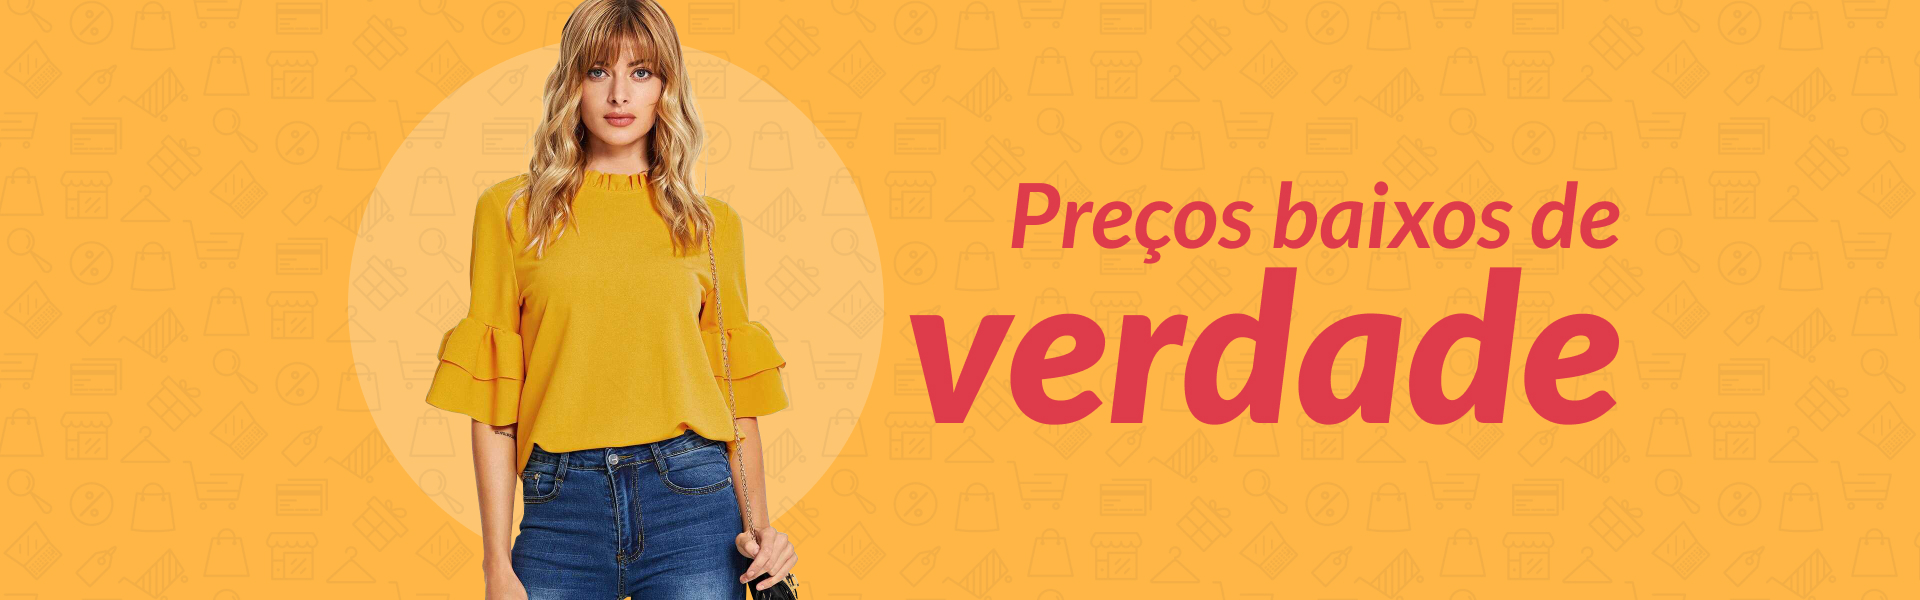
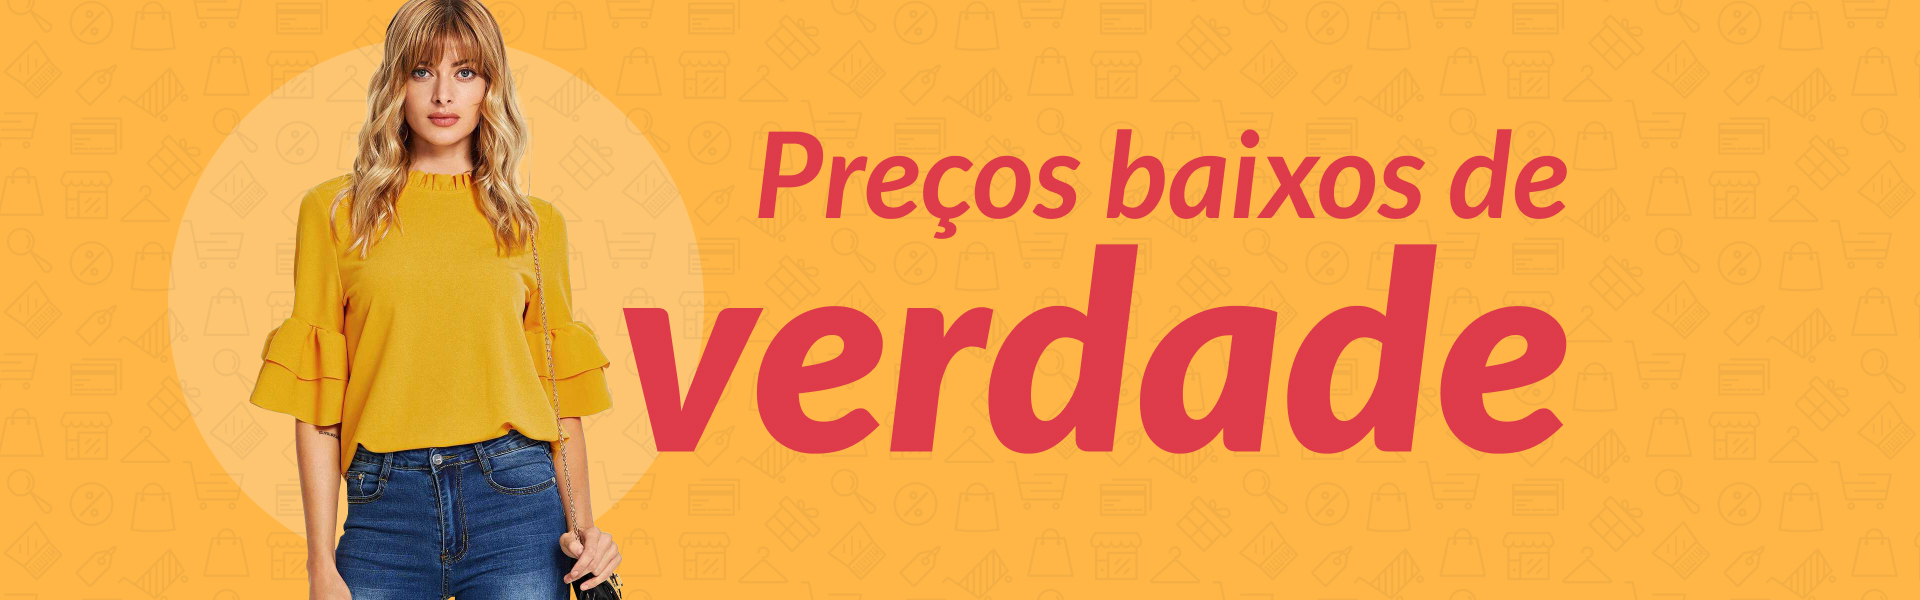
finished

diff --git a/src/components/Nav/styled.js b/src/components/Nav/styled.js
@@ -1,4 +1,5 @@
 import styled from 'styled-components'
+import media from 'styled-media-query'
 import { Megaphone } from '@styled-icons/ionicons-outline/Megaphone'
 import { ShoppingBag as Bag } from '@styled-icons/boxicons-regular/ShoppingBag'
 
@@ -14,6 +15,11 @@ export const Nav = styled.nav`
   max-width: 1320px;
   margin: auto;
   padding: 20px 20px 15px;
+
+  ${media.lessThan('medium')`
+  grid-template-columns: 1fr 1fr;
+  gap: 30px;
+  `}
 `
 
 export const Logo = styled.div``
@@ -22,6 +28,10 @@ export const Links = styled.ul`
   display: flex;
   list-style-type: none;
   margin: auto;
+
+  ${media.lessThan('medium')`
+    display: none;
+  `}
 `
 
 export const Link = styled.li`
@@ -55,6 +65,10 @@ export const SubNavContainer = styled.div`
   max-width: 1320px;
   margin: auto;
   padding: 8px 20px;
+
+  ${media.lessThan('medium')`
+  grid-template-columns: 1fr;
+  `}
 `
 
 export const Title = styled.div`
@@ -62,6 +76,12 @@ export const Title = styled.div`
   text-align: center;
   font-weight: 900;
   font-style: italic;
+
+  ${media.lessThan('medium')`
+    &.second {
+      display: none;
+    }
+  `}
 `
 
 export const MegaphoneIcon = styled(Megaphone)`

diff --git a/src/components/Product/styled.js b/src/components/Product/styled.js
@@ -1,4 +1,5 @@
 import styled from 'styled-components'
+import media from 'styled-media-query'
 import Img from 'gatsby-image'
 import { Heart } from '@styled-icons/fa-regular/Heart'
 import { Heart as HeartSolid } from '@styled-icons/fa-solid/Heart'
@@ -35,6 +36,10 @@ export const ProductImage = styled(Img)`
   width: 100%;
   min-height: 300px;
   margin-bottom: 10px;
+
+  ${media.lessThan('medium')`
+    min-height: 150px;
+  `}
 `
 
 export const ProductDesc = styled.div`

diff --git a/src/components/Nav/index.js b/src/components/Nav/index.js
@@ -105,7 +105,7 @@ const Nav = () => (
         <S.Title>
           <S.MegaphoneIcon /> Preços baixos de verdade
         </S.Title>
-        <S.Title>
+        <S.Title className="second">
           <S.BagIcon /> As melhores roupas para toda família
         </S.Title>
       </S.SubNavContainer>

diff --git a/src/components/Hero/styled.js b/src/components/Hero/styled.js
@@ -1,4 +1,9 @@
 import styled from 'styled-components'
+import media from 'styled-media-query'
 import Img from 'gatsby-image'
 
-export const HeroWrapper = styled(Img)``
+export const HeroWrapper = styled(Img)`
+  ${media.lessThan('medium')`
+    min-height: 260px;
+  `}
+`

diff --git a/src/components/Banner/styled.js b/src/components/Banner/styled.js
@@ -1,4 +1,9 @@
 import styled from 'styled-components'
+import media from 'styled-media-query'
 import Img from 'gatsby-image'
 
-export const Wrapper = styled(Img)``
+export const Wrapper = styled(Img)`
+  ${media.lessThan('medium')`
+    min-height: 170px;
+  `}
+`
